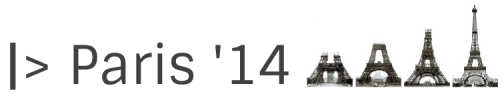
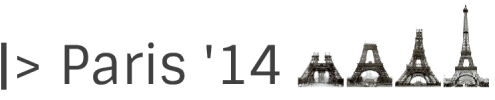
More tweaks for responsive layout

diff --git a/paris/2014.html b/paris/2014.html
@@ -30,8 +30,8 @@
             <div class="row header">
                 <div class="col-lg-12 col-md-12">
                     <a href="../index.html">
-                        <img src="../images/fsharp_works_logo_100.png" class="img-responsive pull-left" style="max-height: 91px; position: relative; z-index: 2;" /></a>
-                    <img src="images/fsharp_works_paris_100.png" class="img-responsive pull-left" style="margin-top: -18px; margin-left: 10px;" />
+                        <img src="../images/fsharp_works_logo_100.png" class="img-responsive pull-left" style="max-height: 91px; position: relative; z-index: 2; margin-right: 30px;" /></a>
+                    <img src="images/fsharp_works_paris_100.png" class="img-responsive pull-left" style="margin-top: -18px;" />
                 </div>
 
             </div>
